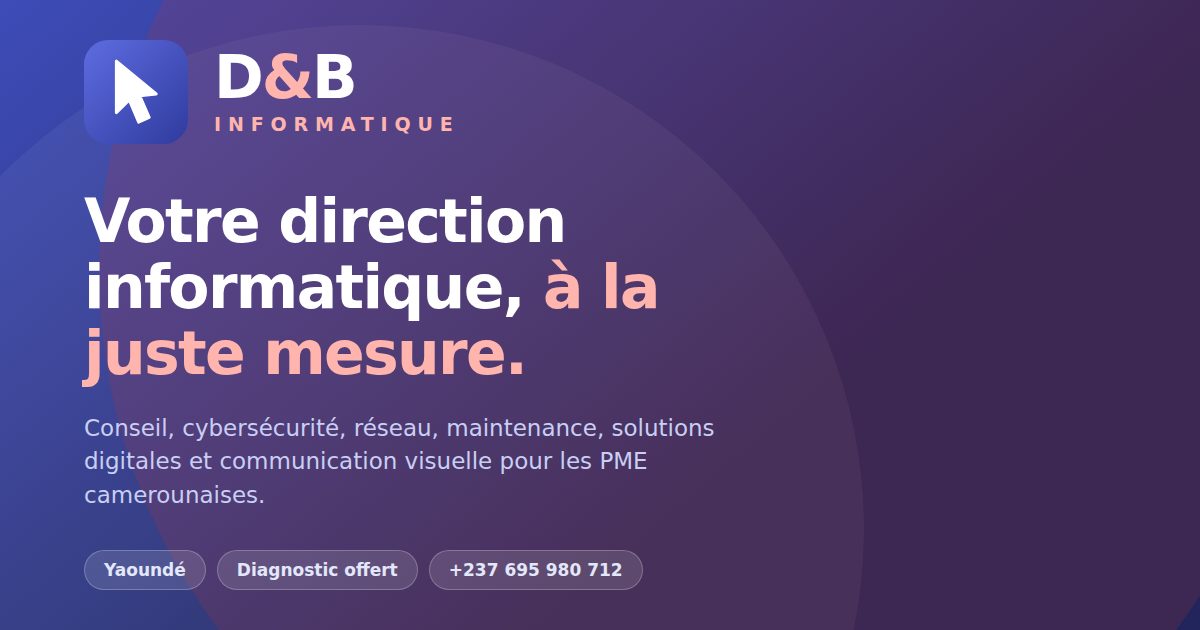
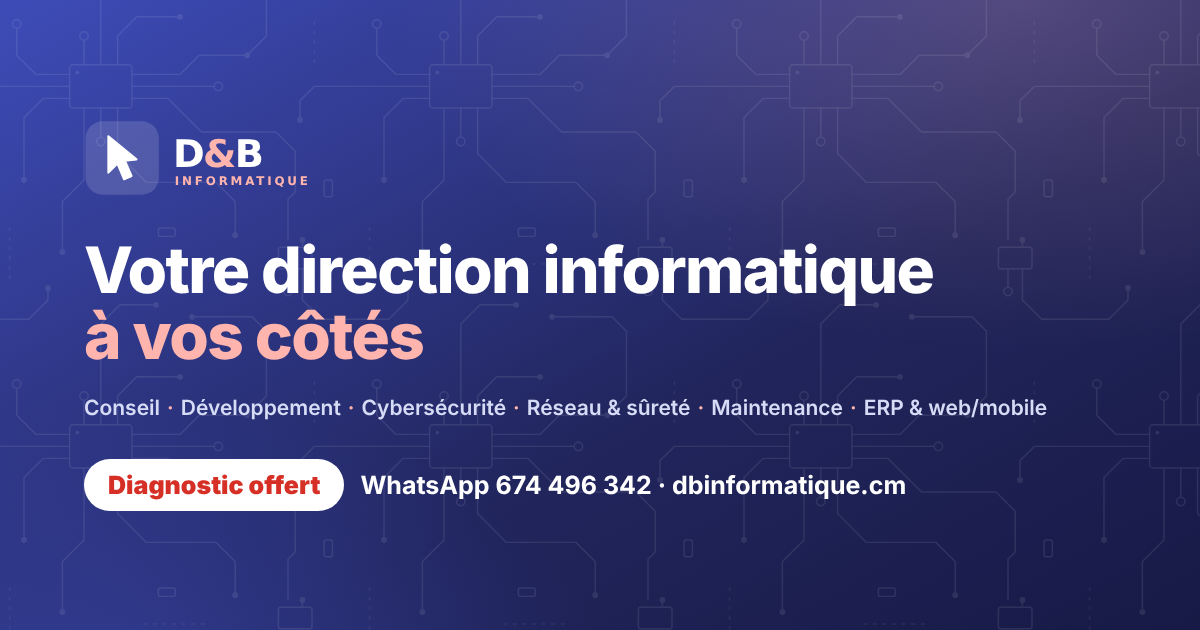
site : v6 — slogan, fondateur masqué, catalogue et QR WhatsApp

diff --git a/index.html b/index.html
@@ -6,7 +6,7 @@
 <meta http-equiv="Content-Security-Policy" content="default-src 'self'; script-src 'self'; style-src 'self'; img-src 'self' data:; font-src 'self'; connect-src 'self'; object-src 'none'; base-uri 'self'; form-action 'self'; frame-src 'none'; manifest-src 'self'; worker-src 'none'; upgrade-insecure-requests">
 <meta name="referrer" content="strict-origin-when-cross-origin">
 <meta name="color-scheme" content="light">
-<title>D&amp;B Informatique — votre direction informatique à Yaoundé</title>
+<title>D&amp;B Informatique — votre direction informatique à vos côtés</title>
 <meta name="description" content="Conseil, cybersécurité, réseau, vidéosurveillance, maintenance au forfait, ERP, sites web et communication visuelle pour les PME camerounaises. Diagnostic offert de 45 minutes à Yaoundé.">
 <link rel="canonical" href="https://dbinformatique.cm/">
 <meta name="theme-color" content="#21255C">
@@ -15,10 +15,10 @@
 <meta property="og:type" content="website">
 <meta property="og:site_name" content="D&amp;B Informatique">
 <meta property="og:locale" content="fr_CM">
-<meta property="og:title" content="D&amp;B Informatique — votre direction informatique à Yaoundé">
+<meta property="og:title" content="D&amp;B Informatique — votre direction informatique à vos côtés">
 <meta property="og:description" content="Conseil, cybersécurité, réseau, vidéosurveillance, maintenance au forfait, ERP, sites web et communication visuelle pour les PME camerounaises. Diagnostic offert de 45 minutes à Yaoundé.">
 <meta property="og:url" content="https://dbinformatique.cm/">
-<meta property="og:image" content="https://dbinformatique.cm/assets/apercu.png">
+<meta property="og:image" content="https://dbinformatique.cm/assets/apercu.png?v=20261009">
 <meta name="twitter:card" content="summary_large_image">
 <link rel="icon" href="/assets/favicon.svg" type="image/svg+xml">
 <link rel="apple-touch-icon" href="/assets/favicon.svg">
@@ -34,20 +34,15 @@
   "description":"Conseil informatique, cybersécurité, réseau, vidéosurveillance, maintenance au forfait, ERP, développement web et mobile, business intelligence et communication visuelle pour les PME de Yaoundé et du Cameroun.",
   "url":"https://dbinformatique.cm",
   "logo":"https://dbinformatique.cm/assets/logo.svg",
-  "image":"https://dbinformatique.cm/assets/apercu.png",
+  "image":"https://dbinformatique.cm/assets/apercu.png?v=20261009",
   "telephone":"+237674496342",
   "email":"contact@dbinformatique.cm",
   "priceRange":"25 000 – 20 000 000 FCFA",
   "currenciesAccepted":"XAF",
   "paymentAccepted":"Virement bancaire, espèces",
-  "founder":{"@type":"Person","name":"Claude Donald Dilangue Mbome","jobTitle":"Fondateur"},
   "address":{"@type":"PostalAddress","addressLocality":"Yaoundé","addressRegion":"Centre","addressCountry":"CM"},
   "areaServed":[{"@type":"City","name":"Yaoundé"},{"@type":"City","name":"Douala"},{"@type":"Country","name":"Cameroun"}],
-  "openingHoursSpecification":[
-    {"@type":"OpeningHoursSpecification","dayOfWeek":["Monday","Tuesday","Wednesday","Thursday","Friday"],"opens":"17:30","closes":"21:00"},
-    {"@type":"OpeningHoursSpecification","dayOfWeek":["Saturday"],"opens":"08:00","closes":"18:00"}
-  ],
-  "sameAs":["https://wa.me/237674496342"],
+  "sameAs":["https://wa.me/237674496342","https://www.facebook.com/dbinformatique17"],
   "knowsAbout":["Audit de système d'information","Cybersécurité","Réseau informatique","Vidéosurveillance","Contrôle d'accès","Infogérance","Développement web et mobile","ERP","Progiciel de gestion intégré","Odoo","Dolibarr","Nextcloud","Alternative à Microsoft 365","Souveraineté numérique","Auto-hébergement","ITSM","Gestion de parc informatique","Logiciel de tickets","Inventaire informatique","VPN","Interconnexion de sites","Réseau multi-sites","ERP sur mesure","Fortinet","Business Intelligence","Intelligence artificielle","Infographie"]
 }
 </script>
@@ -58,7 +53,7 @@
   <div class="wrap bar">
     <a class="logo" href="/" aria-label="D&amp;B Informatique — accueil"><img src="/assets/logo.svg" alt="D&amp;B Informatique" width="133" height="38"></a>
     <nav class="menu" id="menu" aria-label="Navigation principale">
-      <a href="/#offres">Offres</a><a href="/#socle">Socle Souverain</a><a href="/#methode">Méthode</a><a href="/#fondateur">Le fondateur</a><a href="/#contact">Contact</a>
+      <a href="/#offres">Offres</a><a href="/#socle">Socle Souverain</a><a href="/#methode">Méthode</a><a href="/#contact">Contact</a>
       <span class="menu-cta"><a class="btn fant" href="/diagnostic/">Diagnostic gratuit</a><a class="btn primaire" href="tel:+237674496342"><svg viewBox="0 0 24 24" fill="none" stroke="currentColor" stroke-width="1.8" stroke-linecap="round" stroke-linejoin="round" aria-hidden="true" focusable="false"><path d="M22 16.9v3a2 2 0 0 1-2.2 2 19.8 19.8 0 0 1-8.6-3.1 19.5 19.5 0 0 1-6-6A19.8 19.8 0 0 1 2.1 4.2 2 2 0 0 1 4.1 2h3a2 2 0 0 1 2 1.7c.1.9.4 1.8.7 2.7a2 2 0 0 1-.5 2.1L8 9.8a16 16 0 0 0 6 6l1.3-1.3a2 2 0 0 1 2.1-.4c.9.3 1.8.6 2.7.7a2 2 0 0 1 1.7 2z"/></svg><span>674 496 342</span></a></span>
     </nav>
     <button class="burger" type="button" aria-label="Ouvrir le menu" aria-expanded="false" aria-controls="menu"><span></span></button>
@@ -275,52 +270,6 @@
   </div>
 </section>
 
-<section class="pale" id="fondateur">
-  <div class="wrap">
-    <div class="fondateur">
-      <figure class="portrait">
-        <picture>
-          <source type="image/webp" srcset="/assets/img/fondateur-480.webp 480w, /assets/img/fondateur-960.webp 960w"
-                  sizes="(max-width: 960px) 320px, 380px">
-          <img src="/assets/img/fondateur-480.png" width="480" height="624" loading="lazy" decoding="async"
-               alt="Claude Donald Dilangue Mbome, fondateur de D&amp;B Informatique">
-        </picture>
-      </figure>
-      <div>
-        <div class="kicker">Le fondateur</div>
-        <h2>Douze ans passés de l'autre côté de la table.</h2>
-        <p class="lede">D&amp;B Informatique est dirigée par <strong>Claude Donald Dilangue Mbome</strong>. Avant de
-           conseiller des dirigeants, il a passé douze années à porter la responsabilité de systèmes d'information
-           en entreprise : rendre des comptes sur des pannes, défendre des budgets, refuser des devis.</p>
-        <ul class="parcours">
-          <li><b>Six ans dans l'assurance</b> — exploitation, réseau, sauvegardes, puis services numériques vendus aux assurés.</li>
-          <li><b>Quatre ans dans l'énergie</b> — référent SI d'un grand projet hydroélectrique : sécurité périmétrique,
-              haute disponibilité, plan de continuité.</li>
-          <li><b>Direction des systèmes d'information</b> — stratégie, cybersécurité, projets de digitalisation,
-              budget, équipes et prestataires.</li>
-        </ul>
-        <ul class="certifs" aria-label="Diplômes et certifications"><li><svg viewBox="0 0 24 24" fill="none" stroke="currentColor" stroke-width="2.2" stroke-linecap="round" stroke-linejoin="round" aria-hidden="true" focusable="false"><path d="M20 6 9 17l-5-5"/></svg>CEH v12</li><li><svg viewBox="0 0 24 24" fill="none" stroke="currentColor" stroke-width="2.2" stroke-linecap="round" stroke-linejoin="round" aria-hidden="true" focusable="false"><path d="M20 6 9 17l-5-5"/></svg>ITIL V4</li><li><svg viewBox="0 0 24 24" fill="none" stroke="currentColor" stroke-width="2.2" stroke-linecap="round" stroke-linejoin="round" aria-hidden="true" focusable="false"><path d="M20 6 9 17l-5-5"/></svg>Fortinet NSE4</li><li><svg viewBox="0 0 24 24" fill="none" stroke="currentColor" stroke-width="2.2" stroke-linecap="round" stroke-linejoin="round" aria-hidden="true" focusable="false"><path d="M20 6 9 17l-5-5"/></svg>MS-100 Microsoft 365</li><li><svg viewBox="0 0 24 24" fill="none" stroke="currentColor" stroke-width="2.2" stroke-linecap="round" stroke-linejoin="round" aria-hidden="true" focusable="false"><path d="M20 6 9 17l-5-5"/></svg>Master SIGL</li><li><svg viewBox="0 0 24 24" fill="none" stroke="currentColor" stroke-width="2.2" stroke-linecap="round" stroke-linejoin="round" aria-hidden="true" focusable="false"><path d="M20 6 9 17l-5-5"/></svg>MIAGE</li></ul>
-        <p class="aide">Certifications vérifiables auprès des organismes qui les délivrent ; numéros communiqués sur demande.</p>
-      </div>
-    </div>
-
-    <h3 class="sous-titre">Des projets menés jusqu'à la mise en production</h3>
-    <ul class="realisations">
-      <li><b>Sécurité et réseau</b> — pare-feu Fortigate sur sites industriels, VPN et certificats, stratégies Active Directory.</li>
-      <li><b>Continuité</b> — sauvegarde, continuité et reprise d'activité sur des systèmes critiques à haute disponibilité.</li>
-      <li><b>Services numériques</b> — portail santé d'un assureur (5 000 utilisateurs actifs), souscription d'assurance par USSD.</li>
-      <li><b>Applications métier</b> — outil de gestion des plaintes d'un grand projet d'infrastructure, du cadrage à la production.</li>
-      <li><b>Données et intégration</b> — bases SQL Server multi-sites interconnectées, certificats sur plateformes ERP financières.</li>
-      <li><b>Collaboration souveraine</b> — Nextcloud pour l'archivage sécurisé : la base de notre Socle Souverain.</li>
-    </ul>
-    <ul class="technos" aria-label="Technologies exploitées en production">
-      <li>Fortinet</li><li>pfSense</li><li>Active Directory</li><li>Windows Server</li><li>VMware</li><li>Hyper-V</li>
-      <li>Proxmox</li><li>Microsoft Azure</li><li>Veeam</li><li>QNAP</li><li>Nextcloud</li><li>SQL Server</li>
-      <li>Asterisk</li><li>3CX</li><li>GLPI</li>
-    </ul>
-  </div>
-</section>
-
 <section class="serre" id="questions">
   <div class="wrap">
     <div class="entete"><div class="kicker">Questions fréquentes</div><h2>Ce qu'on nous demande avant de signer</h2></div>
@@ -393,11 +342,18 @@
             <span><a href="tel:+237674496342">+237 674 496 342</a> — appel ou message</span></div></li>
           <li><span class="ic" aria-hidden="true"><svg viewBox="0 0 24 24" fill="none" stroke="currentColor" stroke-width="1.8" stroke-linecap="round" stroke-linejoin="round" aria-hidden="true" focusable="false"><rect x="3" y="5" width="18" height="14" rx="2"/><path d="m3 7 9 6 9-6"/></svg></span><div><b>Courriel</b>
             <span><a href="mailto:contact@dbinformatique.cm">contact@dbinformatique.cm</a></span></div></li>
+          <li><span class="ic" aria-hidden="true"><svg viewBox="0 0 24 24" fill="none" stroke="currentColor" stroke-width="1.8" stroke-linecap="round" stroke-linejoin="round" aria-hidden="true" focusable="false"><rect x="3" y="3" width="7" height="7" rx="1.5"/><rect x="14" y="3" width="7" height="7" rx="1.5"/><rect x="3" y="14" width="7" height="7" rx="1.5"/><rect x="14" y="14" width="7" height="7" rx="1.5"/></svg></span><div><b>Catalogue WhatsApp</b>
+            <span><a href="https://wa.me/c/237674496342" target="_blank" rel="noopener noreferrer">Nos offres phares et leurs prix</a></span></div></li>
           <li><span class="ic" aria-hidden="true"><svg viewBox="0 0 24 24" fill="none" stroke="currentColor" stroke-width="1.8" stroke-linecap="round" stroke-linejoin="round" aria-hidden="true" focusable="false"><path d="M12 21s-7-6.2-7-11a7 7 0 0 1 14 0c0 4.8-7 11-7 11z"/><circle cx="12" cy="10" r="2.5"/></svg></span><div><b>Zone d'intervention</b>
             <span>Yaoundé et région du Centre sans frais de déplacement. Reste du Cameroun sur devis.</span></div></li>
           <li><span class="ic" aria-hidden="true"><svg viewBox="0 0 24 24" fill="none" stroke="currentColor" stroke-width="1.8" stroke-linecap="round" stroke-linejoin="round" aria-hidden="true" focusable="false"><circle cx="12" cy="12" r="9"/><path d="M12 7v5l3 2"/></svg></span><div><b>Disponibilités</b>
             <span>Sur rendez-vous, du lundi au samedi. Réponse sous 24 h ouvrées. Urgences sous contrat : selon le délai garanti à votre contrat.</span></div></li>
         </ul>
+        <div class="wa-qr">
+          <img src="/assets/img/qr-whatsapp.svg" width="112" height="112" loading="lazy" alt="Code QR : écrire à D&amp;B Informatique sur WhatsApp">
+          <div><b>Vous êtes sur ordinateur&nbsp;?</b>
+            <span>Scannez ce code avec votre téléphone : la conversation WhatsApp s'ouvre directement.</span></div>
+        </div>
         <div class="note mt"><h3>Vous préférez commencer seul&nbsp;?</h3>
           <p>Douze questions, deux minutes, un score et trois priorités. Rien n'est envoyé : tout se calcule dans
              votre navigateur.</p>
@@ -415,10 +371,10 @@
         <p>Conseil, cybersécurité, infrastructure, maintenance au forfait, ERP, solutions digitales et communication visuelle pour les PME et les institutions camerounaises.</p></div>
       <div><h4>Le site</h4><ul>
         <li><a href="/#offres">Offres et prix</a></li><li><a href="/#socle">Socle Souverain</a></li>
-        <li><a href="/#methode">Notre méthode</a></li><li><a href="/#fondateur">Le fondateur</a></li>
+        <li><a href="/#methode">Notre méthode</a></li>
         <li><a href="/#questions">Questions fréquentes</a></li><li><a href="/diagnostic/">Diagnostic en ligne</a></li></ul></div>
       <div><h4>Nous joindre</h4><ul>
-        <li><a href="tel:+237674496342">+237 674 496 342</a></li><li><a href="https://wa.me/237674496342" target="_blank" rel="noopener noreferrer">WhatsApp</a></li>
+        <li><a href="tel:+237674496342">+237 674 496 342</a></li><li><a href="https://wa.me/237674496342" target="_blank" rel="noopener noreferrer">WhatsApp</a></li><li><a href="https://wa.me/c/237674496342" target="_blank" rel="noopener noreferrer">Catalogue WhatsApp</a></li><li><a href="https://www.facebook.com/dbinformatique17" target="_blank" rel="noopener noreferrer">Facebook</a></li>
         <li><a href="mailto:contact@dbinformatique.cm">contact@dbinformatique.cm</a></li>
         <li>Yaoundé, Cameroun</li><li>Sur rendez-vous</li></ul></div>
       <div><h4>Informations</h4><ul>

diff --git a/mentions-legales/index.html b/mentions-legales/index.html
@@ -18,7 +18,7 @@
 <meta property="og:title" content="Mentions légales et confidentialité — D&amp;B Informatique">
 <meta property="og:description" content="Éditeur, hébergeur, données personnelles, prix et signalement de failles de sécurité : les informations légales du site de D&amp;B Informatique SARL.">
 <meta property="og:url" content="https://dbinformatique.cm/mentions-legales/">
-<meta property="og:image" content="https://dbinformatique.cm/assets/apercu.png">
+<meta property="og:image" content="https://dbinformatique.cm/assets/apercu.png?v=20261009">
 <meta name="twitter:card" content="summary_large_image">
 <link rel="icon" href="/assets/favicon.svg" type="image/svg+xml">
 <link rel="apple-touch-icon" href="/assets/favicon.svg">
@@ -31,7 +31,7 @@
   <div class="wrap bar">
     <a class="logo" href="/" aria-label="D&amp;B Informatique — accueil"><img src="/assets/logo.svg" alt="D&amp;B Informatique" width="133" height="38"></a>
     <nav class="menu" id="menu" aria-label="Navigation principale">
-      <a href="/#offres">Offres</a><a href="/#socle">Socle Souverain</a><a href="/#methode">Méthode</a><a href="/#fondateur">Le fondateur</a><a href="/#contact">Contact</a>
+      <a href="/#offres">Offres</a><a href="/#socle">Socle Souverain</a><a href="/#methode">Méthode</a><a href="/#contact">Contact</a>
       <span class="menu-cta"><a class="btn fant" href="/diagnostic/">Diagnostic gratuit</a><a class="btn primaire" href="tel:+237674496342"><svg viewBox="0 0 24 24" fill="none" stroke="currentColor" stroke-width="1.8" stroke-linecap="round" stroke-linejoin="round" aria-hidden="true" focusable="false"><path d="M22 16.9v3a2 2 0 0 1-2.2 2 19.8 19.8 0 0 1-8.6-3.1 19.5 19.5 0 0 1-6-6A19.8 19.8 0 0 1 2.1 4.2 2 2 0 0 1 4.1 2h3a2 2 0 0 1 2 1.7c.1.9.4 1.8.7 2.7a2 2 0 0 1-.5 2.1L8 9.8a16 16 0 0 0 6 6l1.3-1.3a2 2 0 0 1 2.1-.4c.9.3 1.8.6 2.7.7a2 2 0 0 1 1.7 2z"/></svg><span>674 496 342</span></a></span>
     </nav>
     <button class="burger" type="button" aria-label="Ouvrir le menu" aria-expanded="false" aria-controls="menu"><span></span></button>
@@ -92,10 +92,10 @@
         <p>Conseil, cybersécurité, infrastructure, maintenance au forfait, ERP, solutions digitales et communication visuelle pour les PME et les institutions camerounaises.</p></div>
       <div><h4>Le site</h4><ul>
         <li><a href="/#offres">Offres et prix</a></li><li><a href="/#socle">Socle Souverain</a></li>
-        <li><a href="/#methode">Notre méthode</a></li><li><a href="/#fondateur">Le fondateur</a></li>
+        <li><a href="/#methode">Notre méthode</a></li>
         <li><a href="/#questions">Questions fréquentes</a></li><li><a href="/diagnostic/">Diagnostic en ligne</a></li></ul></div>
       <div><h4>Nous joindre</h4><ul>
-        <li><a href="tel:+237674496342">+237 674 496 342</a></li><li><a href="https://wa.me/237674496342" target="_blank" rel="noopener noreferrer">WhatsApp</a></li>
+        <li><a href="tel:+237674496342">+237 674 496 342</a></li><li><a href="https://wa.me/237674496342" target="_blank" rel="noopener noreferrer">WhatsApp</a></li><li><a href="https://wa.me/c/237674496342" target="_blank" rel="noopener noreferrer">Catalogue WhatsApp</a></li><li><a href="https://www.facebook.com/dbinformatique17" target="_blank" rel="noopener noreferrer">Facebook</a></li>
         <li><a href="mailto:contact@dbinformatique.cm">contact@dbinformatique.cm</a></li>
         <li>Yaoundé, Cameroun</li><li>Sur rendez-vous</li></ul></div>
       <div><h4>Informations</h4><ul>

diff --git a/diagnostic/index.html b/diagnostic/index.html
@@ -18,7 +18,7 @@
 <meta property="og:title" content="Diagnostic informatique en 12 questions — D&amp;B Informatique">
 <meta property="og:description" content="En 3 minutes, évaluez gratuitement l&#x27;état et les risques de l&#x27;informatique de votre entreprise. Résultat immédiat.">
 <meta property="og:url" content="https://dbinformatique.cm/diagnostic/">
-<meta property="og:image" content="https://dbinformatique.cm/assets/apercu.png">
+<meta property="og:image" content="https://dbinformatique.cm/assets/apercu.png?v=20261009">
 <meta name="twitter:card" content="summary_large_image">
 <link rel="icon" href="/assets/favicon.svg" type="image/svg+xml">
 <link rel="apple-touch-icon" href="/assets/favicon.svg">
@@ -32,7 +32,7 @@
   <div class="wrap bar">
     <a class="logo" href="/" aria-label="D&amp;B Informatique — accueil"><img src="/assets/logo.svg" alt="D&amp;B Informatique" width="133" height="38"></a>
     <nav class="menu" id="menu" aria-label="Navigation principale">
-      <a href="/#offres">Offres</a><a href="/#socle">Socle Souverain</a><a href="/#methode">Méthode</a><a href="/#fondateur">Le fondateur</a><a href="/#contact">Contact</a>
+      <a href="/#offres">Offres</a><a href="/#socle">Socle Souverain</a><a href="/#methode">Méthode</a><a href="/#contact">Contact</a>
       <span class="menu-cta"><a class="btn fant" href="/diagnostic/" aria-current="page">Diagnostic gratuit</a><a class="btn primaire" href="tel:+237674496342"><svg viewBox="0 0 24 24" fill="none" stroke="currentColor" stroke-width="1.8" stroke-linecap="round" stroke-linejoin="round" aria-hidden="true" focusable="false"><path d="M22 16.9v3a2 2 0 0 1-2.2 2 19.8 19.8 0 0 1-8.6-3.1 19.5 19.5 0 0 1-6-6A19.8 19.8 0 0 1 2.1 4.2 2 2 0 0 1 4.1 2h3a2 2 0 0 1 2 1.7c.1.9.4 1.8.7 2.7a2 2 0 0 1-.5 2.1L8 9.8a16 16 0 0 0 6 6l1.3-1.3a2 2 0 0 1 2.1-.4c.9.3 1.8.6 2.7.7a2 2 0 0 1 1.7 2z"/></svg><span>674 496 342</span></a></span>
     </nav>
     <button class="burger" type="button" aria-label="Ouvrir le menu" aria-expanded="false" aria-controls="menu"><span></span></button>
@@ -67,10 +67,10 @@
         <p>Conseil, cybersécurité, infrastructure, maintenance au forfait, ERP, solutions digitales et communication visuelle pour les PME et les institutions camerounaises.</p></div>
       <div><h4>Le site</h4><ul>
         <li><a href="/#offres">Offres et prix</a></li><li><a href="/#socle">Socle Souverain</a></li>
-        <li><a href="/#methode">Notre méthode</a></li><li><a href="/#fondateur">Le fondateur</a></li>
+        <li><a href="/#methode">Notre méthode</a></li>
         <li><a href="/#questions">Questions fréquentes</a></li><li><a href="/diagnostic/">Diagnostic en ligne</a></li></ul></div>
       <div><h4>Nous joindre</h4><ul>
-        <li><a href="tel:+237674496342">+237 674 496 342</a></li><li><a href="https://wa.me/237674496342" target="_blank" rel="noopener noreferrer">WhatsApp</a></li>
+        <li><a href="tel:+237674496342">+237 674 496 342</a></li><li><a href="https://wa.me/237674496342" target="_blank" rel="noopener noreferrer">WhatsApp</a></li><li><a href="https://wa.me/c/237674496342" target="_blank" rel="noopener noreferrer">Catalogue WhatsApp</a></li><li><a href="https://www.facebook.com/dbinformatique17" target="_blank" rel="noopener noreferrer">Facebook</a></li>
         <li><a href="mailto:contact@dbinformatique.cm">contact@dbinformatique.cm</a></li>
         <li>Yaoundé, Cameroun</li><li>Sur rendez-vous</li></ul></div>
       <div><h4>Informations</h4><ul>

diff --git a/404.html b/404.html
@@ -19,7 +19,7 @@
 <meta property="og:title" content="Page introuvable — D&amp;B Informatique">
 <meta property="og:description" content="Cette page n&#x27;existe pas. Retrouvez les offres de D&amp;B Informatique ou contactez-nous.">
 <meta property="og:url" content="https://dbinformatique.cm/404.html">
-<meta property="og:image" content="https://dbinformatique.cm/assets/apercu.png">
+<meta property="og:image" content="https://dbinformatique.cm/assets/apercu.png?v=20261009">
 <meta name="twitter:card" content="summary_large_image">
 <link rel="icon" href="/assets/favicon.svg" type="image/svg+xml">
 <link rel="apple-touch-icon" href="/assets/favicon.svg">
@@ -32,7 +32,7 @@
   <div class="wrap bar">
     <a class="logo" href="/" aria-label="D&amp;B Informatique — accueil"><img src="/assets/logo.svg" alt="D&amp;B Informatique" width="133" height="38"></a>
     <nav class="menu" id="menu" aria-label="Navigation principale">
-      <a href="/#offres">Offres</a><a href="/#socle">Socle Souverain</a><a href="/#methode">Méthode</a><a href="/#fondateur">Le fondateur</a><a href="/#contact">Contact</a>
+      <a href="/#offres">Offres</a><a href="/#socle">Socle Souverain</a><a href="/#methode">Méthode</a><a href="/#contact">Contact</a>
       <span class="menu-cta"><a class="btn fant" href="/diagnostic/">Diagnostic gratuit</a><a class="btn primaire" href="tel:+237674496342"><svg viewBox="0 0 24 24" fill="none" stroke="currentColor" stroke-width="1.8" stroke-linecap="round" stroke-linejoin="round" aria-hidden="true" focusable="false"><path d="M22 16.9v3a2 2 0 0 1-2.2 2 19.8 19.8 0 0 1-8.6-3.1 19.5 19.5 0 0 1-6-6A19.8 19.8 0 0 1 2.1 4.2 2 2 0 0 1 4.1 2h3a2 2 0 0 1 2 1.7c.1.9.4 1.8.7 2.7a2 2 0 0 1-.5 2.1L8 9.8a16 16 0 0 0 6 6l1.3-1.3a2 2 0 0 1 2.1-.4c.9.3 1.8.6 2.7.7a2 2 0 0 1 1.7 2z"/></svg><span>674 496 342</span></a></span>
     </nav>
     <button class="burger" type="button" aria-label="Ouvrir le menu" aria-expanded="false" aria-controls="menu"><span></span></button>
@@ -56,10 +56,10 @@
         <p>Conseil, cybersécurité, infrastructure, maintenance au forfait, ERP, solutions digitales et communication visuelle pour les PME et les institutions camerounaises.</p></div>
       <div><h4>Le site</h4><ul>
         <li><a href="/#offres">Offres et prix</a></li><li><a href="/#socle">Socle Souverain</a></li>
-        <li><a href="/#methode">Notre méthode</a></li><li><a href="/#fondateur">Le fondateur</a></li>
+        <li><a href="/#methode">Notre méthode</a></li>
         <li><a href="/#questions">Questions fréquentes</a></li><li><a href="/diagnostic/">Diagnostic en ligne</a></li></ul></div>
       <div><h4>Nous joindre</h4><ul>
-        <li><a href="tel:+237674496342">+237 674 496 342</a></li><li><a href="https://wa.me/237674496342" target="_blank" rel="noopener noreferrer">WhatsApp</a></li>
+        <li><a href="tel:+237674496342">+237 674 496 342</a></li><li><a href="https://wa.me/237674496342" target="_blank" rel="noopener noreferrer">WhatsApp</a></li><li><a href="https://wa.me/c/237674496342" target="_blank" rel="noopener noreferrer">Catalogue WhatsApp</a></li><li><a href="https://www.facebook.com/dbinformatique17" target="_blank" rel="noopener noreferrer">Facebook</a></li>
         <li><a href="mailto:contact@dbinformatique.cm">contact@dbinformatique.cm</a></li>
         <li>Yaoundé, Cameroun</li><li>Sur rendez-vous</li></ul></div>
       <div><h4>Informations</h4><ul>

diff --git a/fondateur/index.html b/fondateur/index.html
@@ -3,12 +3,12 @@
 <head>
 <meta charset="utf-8">
 <meta http-equiv="Content-Security-Policy" content="default-src 'self'; script-src 'self'; style-src 'self'; img-src 'self' data:; font-src 'self'; connect-src 'self'; object-src 'none'; base-uri 'self'; form-action 'self'; frame-src 'none'; manifest-src 'self'; worker-src 'none'; upgrade-insecure-requests">
-<meta http-equiv="refresh" content="0; url=/#fondateur">
+<meta http-equiv="refresh" content="0; url=/">
 <meta name="robots" content="noindex">
 <link rel="canonical" href="https://dbinformatique.cm/">
-<title>Page déplacée — D&amp;B Informatique</title>
+<title>Page indisponible — D&amp;B Informatique</title>
 </head>
 <body>
-<p>Cette page a changé d'adresse : <a href="/#fondateur">https://dbinformatique.cm/#fondateur</a></p>
+<p>Cette page n'est plus disponible : <a href="/">https://dbinformatique.cm/</a></p>
 </body>
 </html>

diff --git a/parcours.html b/parcours.html
@@ -3,12 +3,12 @@
 <head>
 <meta charset="utf-8">
 <meta http-equiv="Content-Security-Policy" content="default-src 'self'; script-src 'self'; style-src 'self'; img-src 'self' data:; font-src 'self'; connect-src 'self'; object-src 'none'; base-uri 'self'; form-action 'self'; frame-src 'none'; manifest-src 'self'; worker-src 'none'; upgrade-insecure-requests">
-<meta http-equiv="refresh" content="0; url=/#fondateur">
+<meta http-equiv="refresh" content="0; url=/">
 <meta name="robots" content="noindex">
 <link rel="canonical" href="https://dbinformatique.cm/">
-<title>Page déplacée — D&amp;B Informatique</title>
+<title>Page indisponible — D&amp;B Informatique</title>
 </head>
 <body>
-<p>Cette page a changé d'adresse : <a href="/#fondateur">https://dbinformatique.cm/#fondateur</a></p>
+<p>Cette page n'est plus disponible : <a href="/">https://dbinformatique.cm/</a></p>
 </body>
 </html>

diff --git a/assets/style.css b/assets/style.css
@@ -430,6 +430,15 @@ footer.bas .fin a{color:#9AA3D8;text-decoration:underline}
   .sous-titre{margin-top:30px}
 }
 
+/* ───── section contact : code QR WhatsApp (ordinateur uniquement) ───── */
+.wa-qr{display:flex;gap:18px;align-items:center;margin-top:18px;padding:14px 18px 14px 14px;background:#fff;
+  border:1px solid var(--ligne);border-radius:16px}
+.wa-qr img{width:112px;height:112px;flex:0 0 auto}
+.wa-qr b{display:block;color:var(--encre);font-size:15px}
+.wa-qr span{display:block;margin-top:3px;font-size:14.5px;line-height:1.45;color:var(--gris)}
+#methode + #questions{border-top:1px solid var(--ligne)}
+@media (max-width:760px){.wa-qr{display:none}}
+
 /* ───── responsive ───── */
 @media (max-width:1120px){
   .burger{display:flex}

diff --git a/README.md b/README.md
@@ -1,30 +1,32 @@
 # Site web de D&B Informatique — https://dbinformatique.cm
 
 Dépôt **public** du site vitrine, publié par **Netlify** (réglages dans `netlify.toml` : publication telle quelle, en-têtes de sécurité).
-GitHub Pages reste actif en secours pendant la transition d'octobre 2026, puis sera désactivé.
+GitHub Pages est désactivé depuis octobre 2026 : ne pas le réactiver, le domaine pointe vers Netlify.
 Tout ce qui est ici est visible par tous : **aucun document interne, aucun prix confidentiel, aucun mot de passe** ne doit y être ajouté.
 Les documents internes sont dans le dépôt privé `dbinformatique/dbinfo-documents`.
 
 ## Pages
 | Adresse | Fichier |
 |---|---|
-| `/` | `index.html` — **page unique** : offres et prix (HT), Socle Souverain, méthode, fondateur, questions, contact |
+| `/` | `index.html` — **page unique** : offres et prix (HT), Socle Souverain, méthode, questions, contact |
 | `/diagnostic/` | `diagnostic/index.html` — diagnostic en ligne en 12 questions |
 | `/mentions-legales/` | `mentions-legales/index.html` — mentions, confidentialité, signalement de failles |
 | (toute adresse inconnue) | `404.html` |
 
-Sections de la page unique : `#offres`, `#socle`, `#methode`, `#fondateur`, `#questions`, `#contact`.
+Sections de la page unique : `#offres`, `#socle`, `#methode`, `#questions`, `#contact`.
+**La section « Le fondateur » est masquée depuis le 9 octobre 2026** (à réafficher plus tard) : son code et le portrait sont conservés dans le dépôt privé (`dbinfo-documents/03_Supports_Commerciaux/Site_Web/fondateur_masque/`), pas ici. Les anciennes adresses `/fondateur/` et `/parcours.html` renvoient vers l'accueil.
 Les anciennes adresses (`/offres/`, `/socle-souverain/`, `/methode/`, `/fondateur/`, `/contact/` et les `.html`) sont de simples
-redirections vers la section correspondante : ne pas les supprimer tant que des liens anciens peuvent circuler.
+redirections vers la section correspondante (ou vers l'accueil) : ne pas les supprimer tant que des liens anciens peuvent circuler.
 Tous les liens et ressources sont absolus depuis la racine (`/assets/…`, `/#offres`) : pour un aperçu local, lancer un petit
 serveur web dans le dossier plutôt qu'ouvrir les fichiers par double-clic.
 
 - `assets/style.css` : toute la mise en forme (couleurs dans le bloc `:root`).
 - `assets/motif-circuit.svg`, `assets/motif-circuit-clair.svg` : motif de fond « circuit imprimé » (tuile raccordable).
-- `assets/img/` : portrait du fondateur (WebP 480/960 px, repli PNG), détouré, sans données EXIF.
+- `assets/img/qr-whatsapp.svg` : code QR de la section contact (ouvre WhatsApp avec « j'ai vu votre site »), affiché sur ordinateur seulement.
 - `assets/js/` : `site.js` (menu), `contact.js` (formulaire), `diagnostic.js` (questionnaire).
 - `.well-known/security.txt` : contact pour signaler une faille (à renouveler avant le 1er octobre 2027).
-- `CNAME`, `.nojekyll`, `robots.txt`, `sitemap.xml` : fichiers techniques — ne pas supprimer.
+- `netlify.toml`, `.nojekyll`, `robots.txt`, `sitemap.xml` : fichiers techniques — ne pas supprimer. (`CNAME` a été retiré le 9 octobre 2026 : il ne servait qu'à GitHub Pages.)
+- `assets/apercu.png` : image affichée quand le lien du site est partagé (WhatsApp, Facebook, LinkedIn). Après l'avoir changée, incrémenter `?v=` dans les balises `og:image`.
 
 ## Règles de sécurité du site
 1. **Aucun script ni style écrit directement dans les pages** (pas de `<script>…</script>`, pas de `style="…"`, pas de `onclick=`). Chaque page déclare une politique de sécurité du contenu (CSP) qui les bloque : tout passe par `assets/`.
